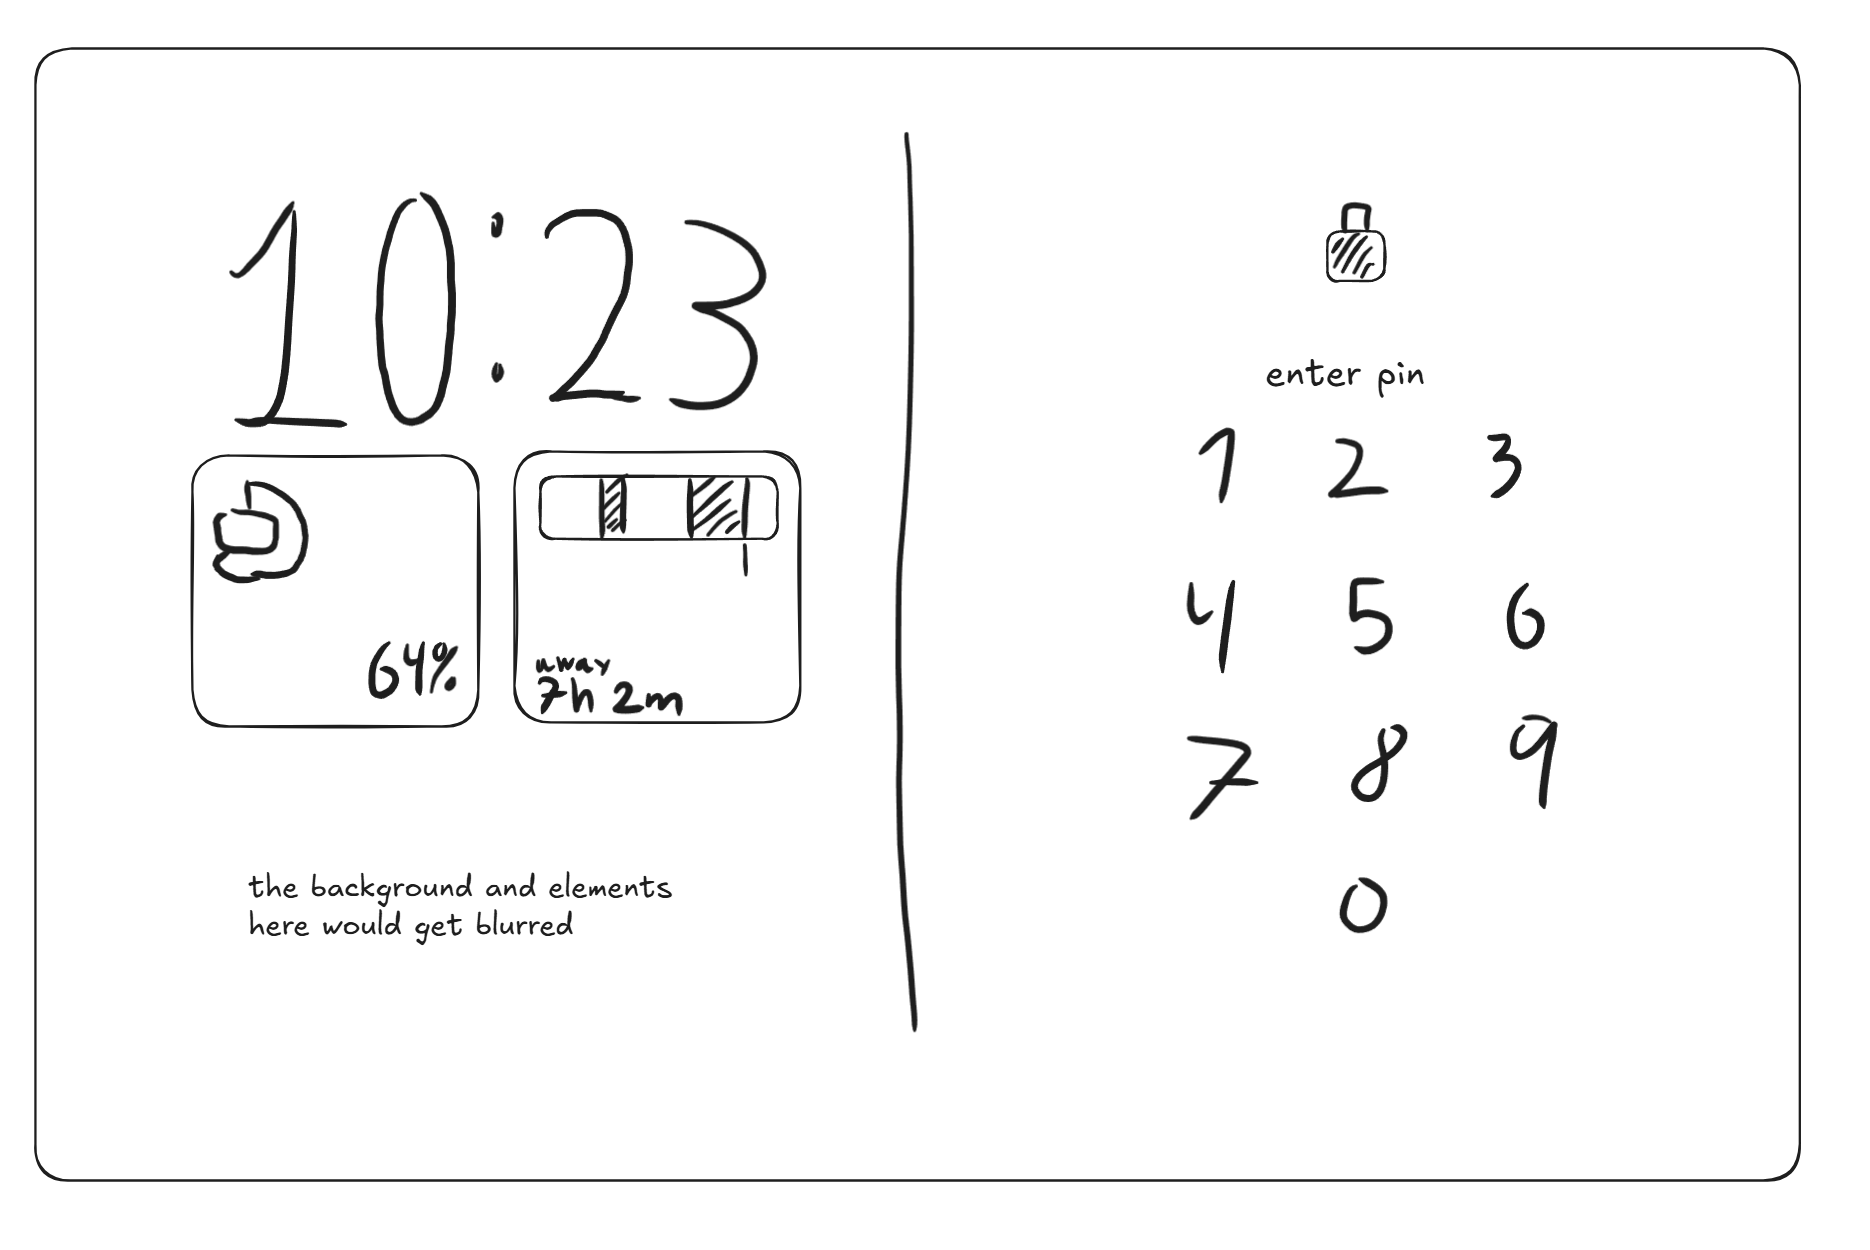
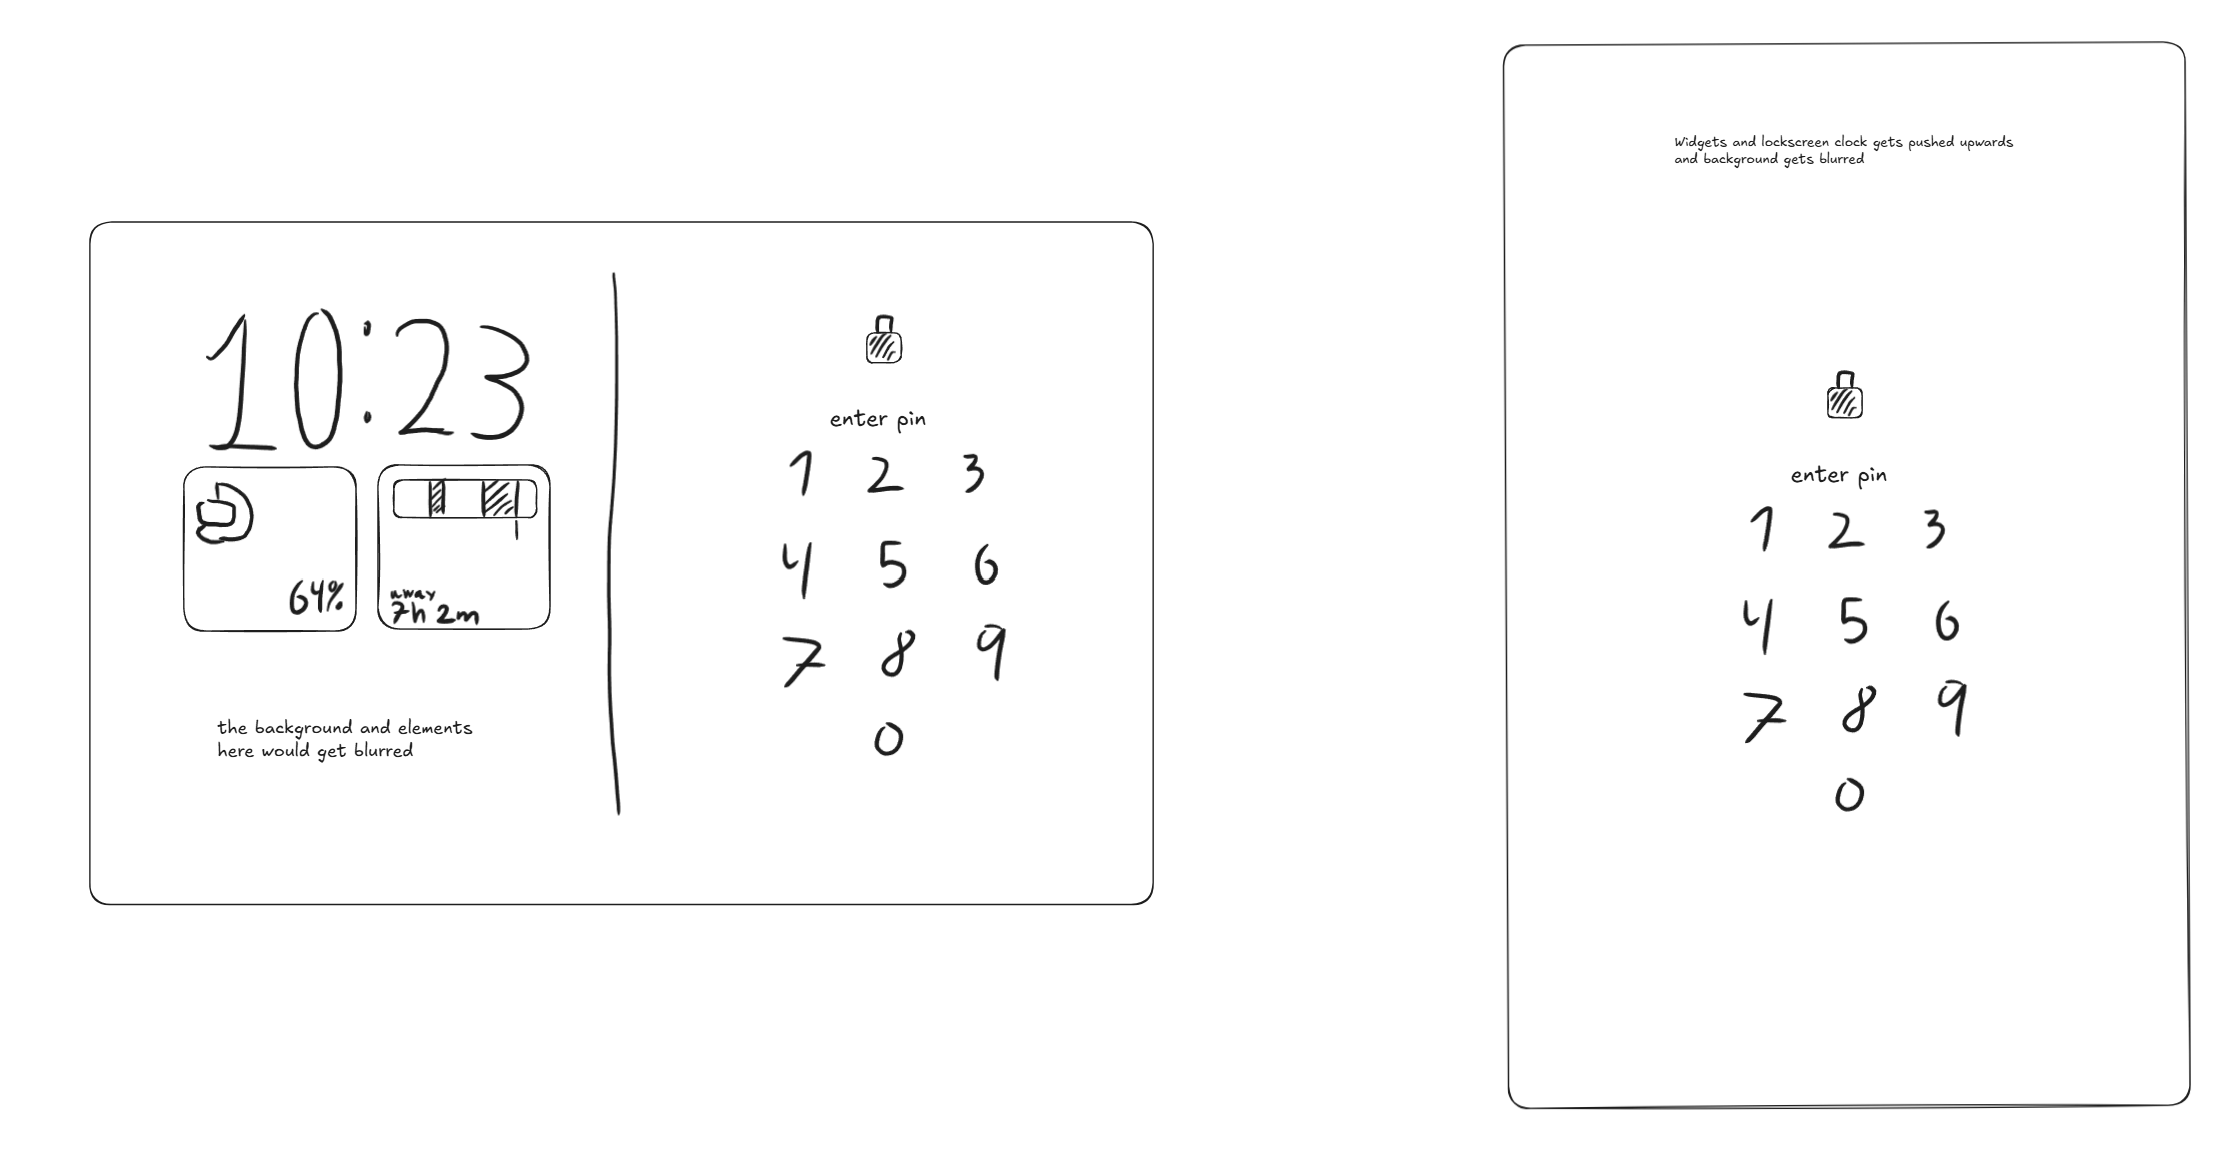
Lock screen doc: add portrait PIN entry
Claude-Session: https://claude.ai/code/session_01QYpPoKcNo2VbVnCoD1etm5

diff --git a/docs/design/lockscreen.md b/docs/design/lockscreen.md
@@ -29,13 +29,15 @@ All three layouts share the same clock and the same widget grid.
 
 ## PIN entry
 
-![Tablet PIN entry sketch, landscape](pin-entry-tablet.png)
+![Tablet PIN entry sketch, landscape and portrait](pin-entry-tablet.png)
 
-Landscape: the screen splits in two.
-
-- **Left:** the lock screen (clock and widgets) stays where it was, with the
-  wallpaper and elements blurred behind.
-- **Right:** a lock icon, "Enter PIN" and the number pad.
+- **Landscape:** the screen splits in two.
+  - **Left:** the lock screen (clock and widgets) stays where it was, and it
+    and the wallpaper are blurred.
+  - **Right:** a lock icon, "Enter PIN" and the number pad.
+- **Portrait:** the clock and widgets slide up and out of view, the
+  wallpaper is blurred, and the lock icon, "Enter PIN" and number pad sit
+  centred on the screen.
 
 Sizes and proportions in the sketch are provisional.
 
@@ -45,6 +47,8 @@ Sizes and proportions in the sketch are provisional.
   for large screens in landscape (`BouncerOverlayLayout.BESIDE_USER_SWITCHER`):
   the PIN pad on one side, and the user switcher or empty space on the
   other. We show the blurred lock screen in that other half instead.
+- Portrait uses the standard centred layout; the clock and widgets sliding
+  up is an animation on the lock screen side as the PIN screen appears.
 - Stock Android lets the user double-tap the empty side to move the PIN pad
   there for one-handed use. Keep or drop this; if kept, the blurred lock
   screen moves to the other side.
